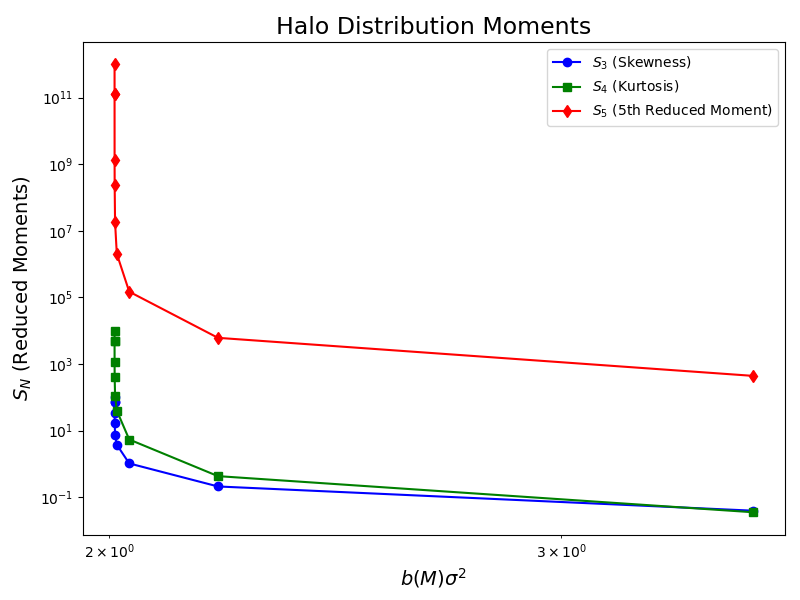
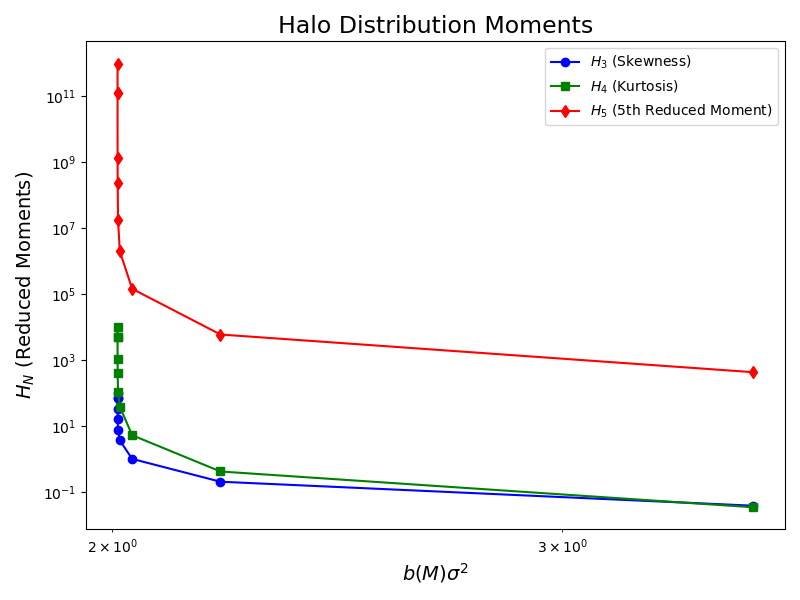
Adjustments to axes for clarity

diff --git a/cosmic_sim_catalog_results.py b/cosmic_sim_catalog_results.py
@@ -54,7 +54,7 @@ def H_n(coords, radius, samplebox, masses, n_cells=10000, delta_c=1.686, p=0.3, 
 means, variances, H3s, H4s, H5s, x_vals = [], [], [], [], [], []
 seed = 42 # For reproduciblility the seed is set at some arbirary constant
 for r in tqdm(radii, desc="Appending H_N"): # Test to see how long this process takes
-    mean, var, S3, S4, S5, b = S_n(coords, r, samplebox, masses, seed=seed)
+    mean, var, H3, H4, H5, b = H_n(coords, r, samplebox, masses, seed=seed)
     means.append(mean)
     variances.append(var)
     H3s.append(H3)

diff --git a/theory_plots.py b/theory_plots.py
@@ -40,6 +40,7 @@ for i, n in enumerate(n_values):
 plt.xlabel(r"Bias Parameter $b$", fontsize=15)  # x-axis as Bias Parameter
 plt.ylabel(r"$H_n$", fontsize=15)
 plt.title("Moments of Halo Distribution (Approximate)", fontsize=17)
+plt.yscale('log')
 plt.legend()
 plt.tight_layout()
 plt.show()
